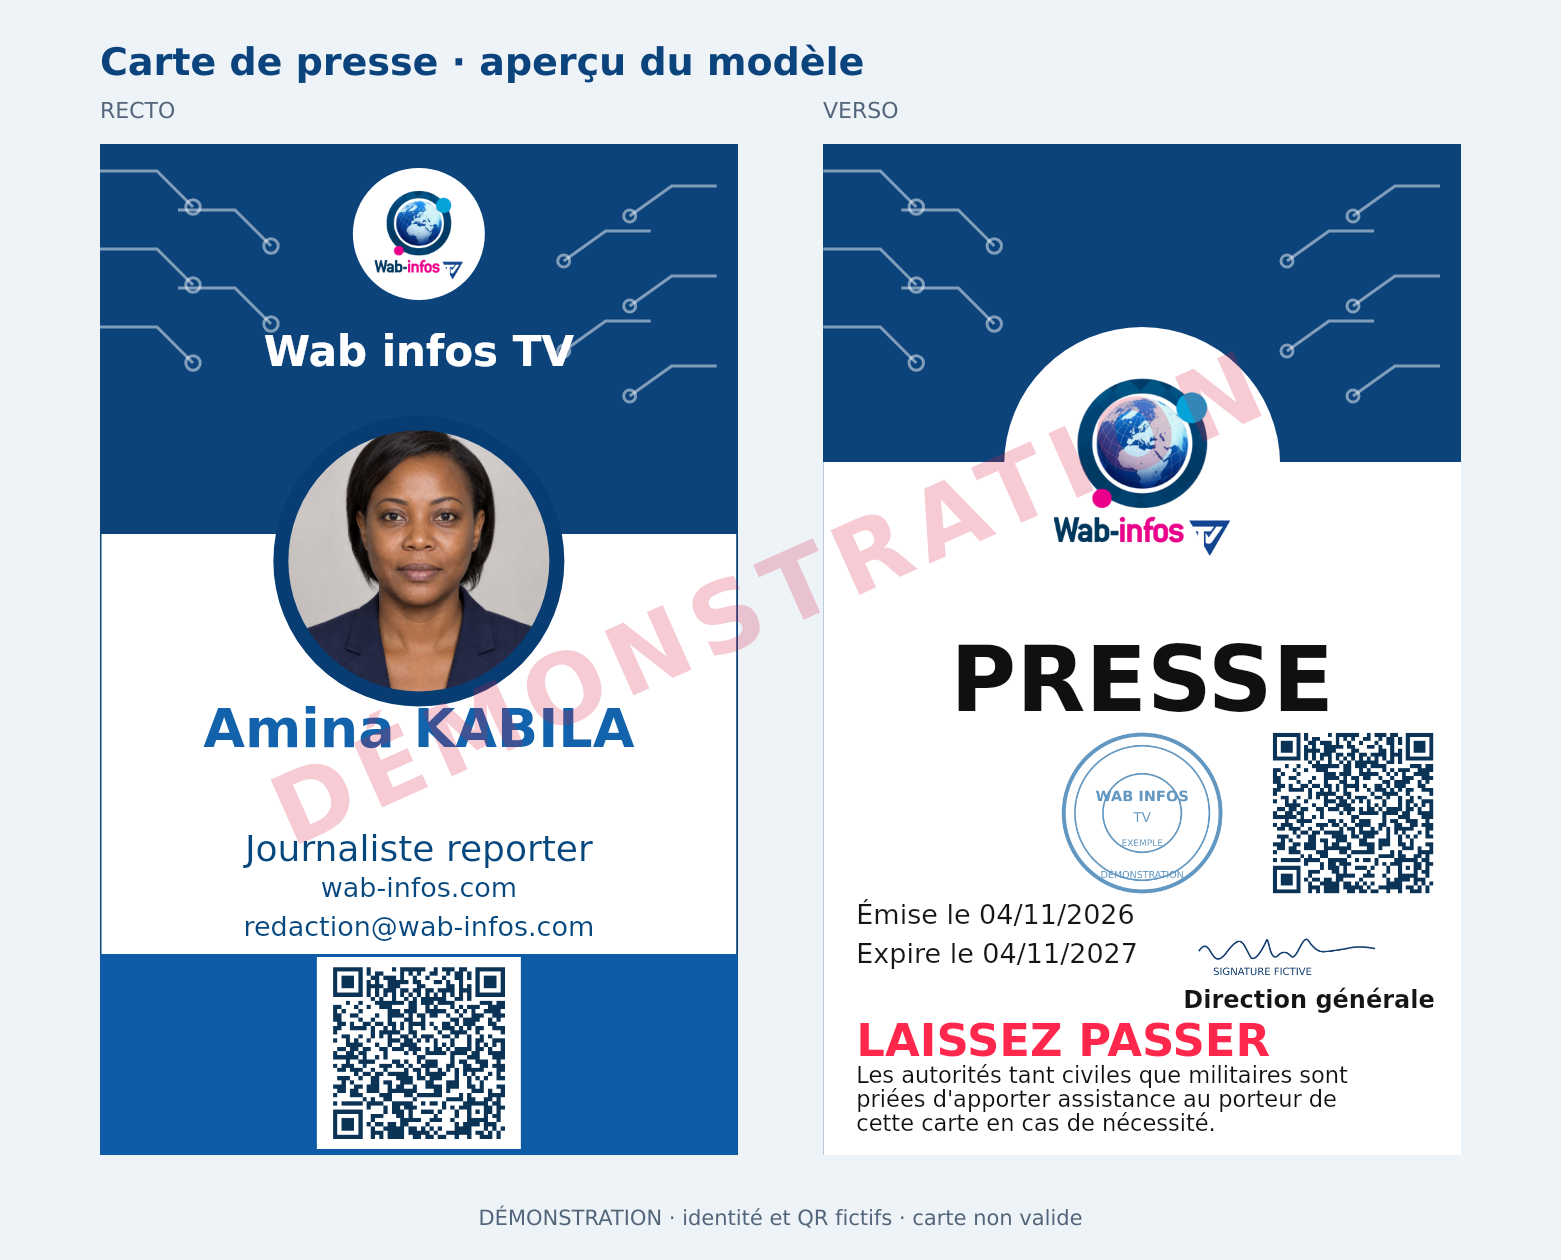
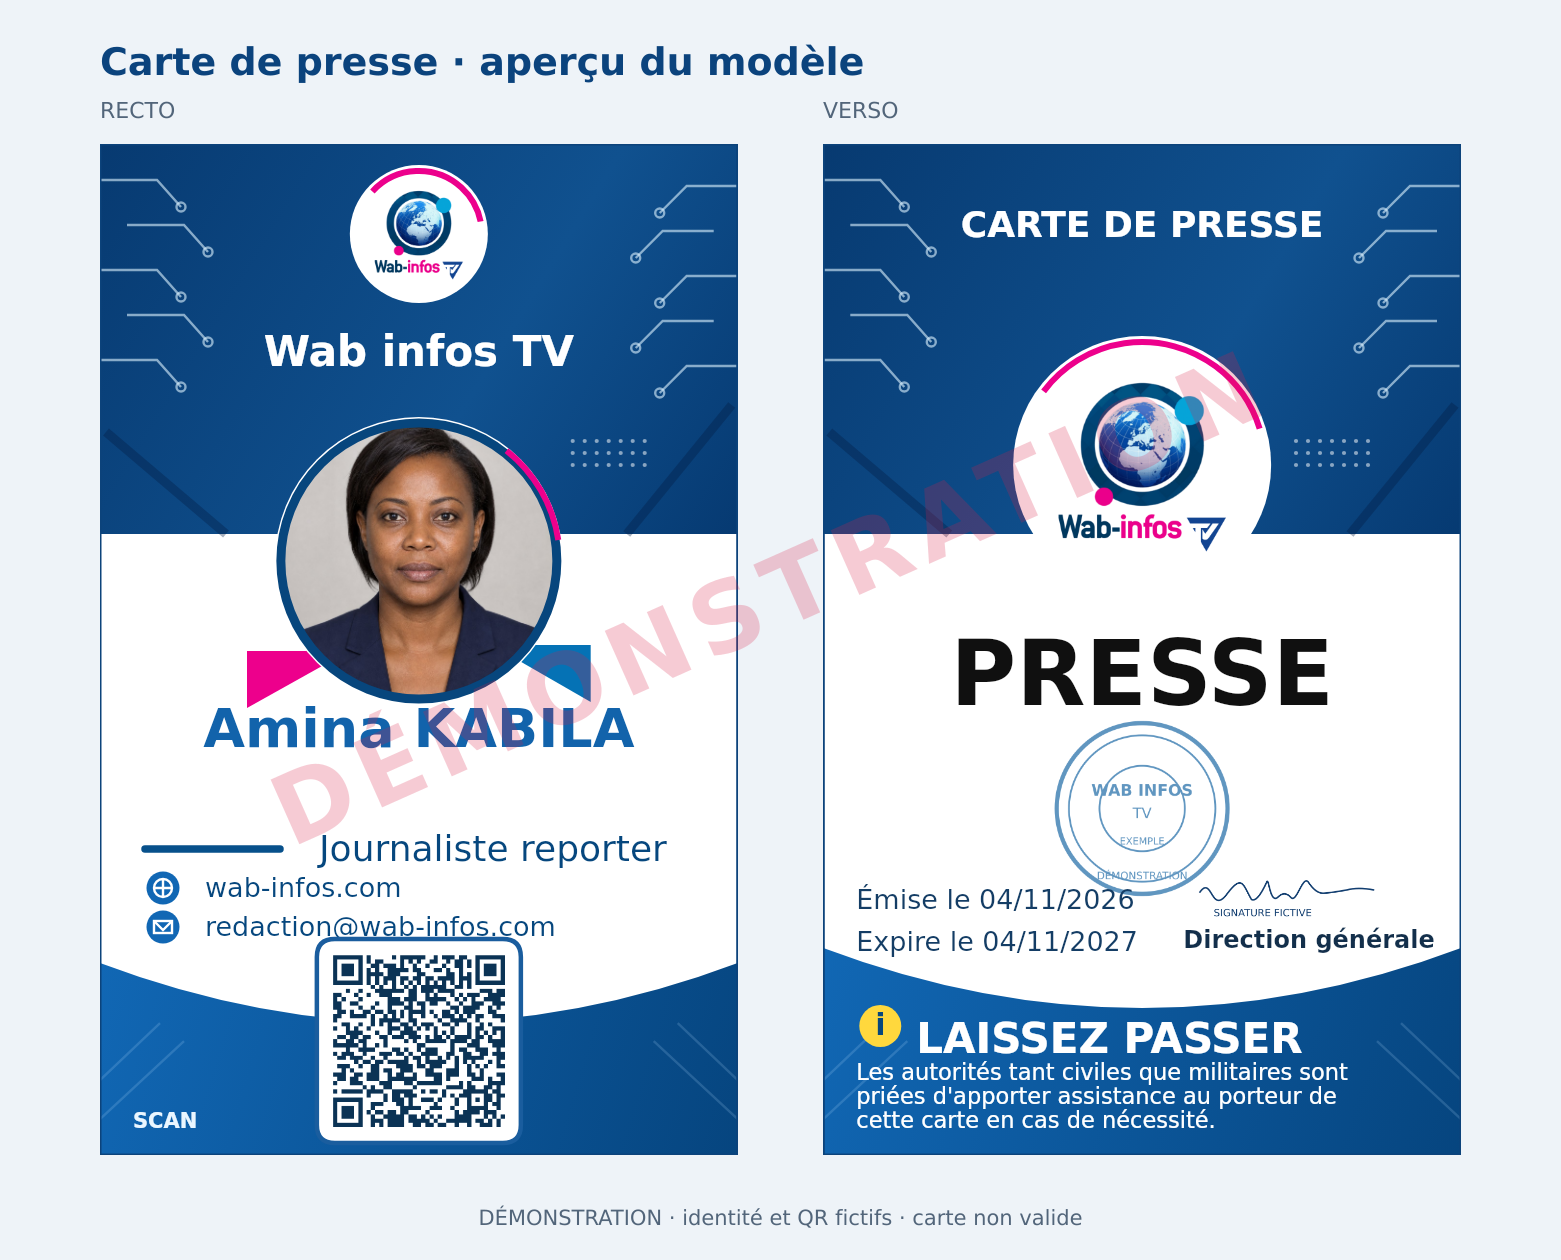
feat(rh): refresh press-card branding and curved footers

diff --git a/apps/redaction/src/lib/redaction/rh/service-card-export.ts b/apps/redaction/src/lib/redaction/rh/service-card-export.ts
@@ -85,19 +85,63 @@ export function planPressCardSheet(ctx:CanvasRenderingContext2D,data:CardSheetDa
   const {card}=data;
   if(!card.verificationUrl || !/^https?:\/\//.test(card.verificationUrl))throw new ServiceCardOverflowError();
   const name=pressLines(ctx,`${card.firstName} ${card.lastName}`,18,PRESS_W-18,2);
-  const role=pressLines(ctx,card.jobTitle,12,PRESS_W-20,1);
+  const role=pressLines(ctx,card.jobTitle,12,PRESS_W-78,1);
   const company=pressLines(ctx,data.companyName,14,PRESS_W-20,2);
-  const website=data.companyWebsite?pressLines(ctx,data.companyWebsite,9,PRESS_W-22,1):[];
-  const email=data.companyEmail?pressLines(ctx,data.companyEmail,9,PRESS_W-22,1):[];
+  const website=data.companyWebsite?pressLines(ctx,data.companyWebsite,9,PRESS_W-46,1):[];
+  const email=data.companyEmail?pressLines(ctx,data.companyEmail,9,PRESS_W-46,1):[];
   const director=data.directorName?pressLines(ctx,data.directorName,8,90,1):[];
   const notice=pressLines(ctx,"Les autorités tant civiles que militaires sont priées d'apporter assistance au porteur de cette carte en cas de nécessité.",7.5,PRESS_W-22,3);
   return {name,role,company,website,email,director,notice,cardWidth:PRESS_W,cardHeight:PRESS_H,frontX:PRESS_FRONT_X,backX:PRESS_BACK_X,cardY:PRESS_Y};
 }
 function network(ctx:CanvasRenderingContext2D,x:number,y:number,w:number){
-  ctx.save();ctx.strokeStyle='rgba(255,255,255,.48)';ctx.lineWidth=1;
-  for(let i=0;i<5;i++){const sx=x+(i%2)*26;const sy=y+9+i*13;ctx.beginPath();ctx.moveTo(sx,sy);ctx.lineTo(sx+19,sy);ctx.lineTo(sx+31,sy+12);ctx.stroke();ctx.beginPath();ctx.arc(sx+31,sy+12,2.4,0,Math.PI*2);ctx.stroke();}
-  for(let i=0;i<5;i++){const sx=x+w-7-(i%2)*22;const sy=y+14+i*15;ctx.beginPath();ctx.moveTo(sx,sy);ctx.lineTo(sx-15,sy);ctx.lineTo(sx-29,sy+10);ctx.stroke();ctx.beginPath();ctx.arc(sx-29,sy+10,2,0,Math.PI*2);ctx.stroke();}
+  ctx.save();ctx.strokeStyle='rgba(222,243,255,.60)';ctx.lineWidth=.8;
+  for(let i=0;i<5;i++){
+    const sy=y+12+i*15, left=x+(i%2)*9, right=x+w-(i%2)*8;
+    ctx.beginPath();ctx.moveTo(left,sy);ctx.lineTo(left+19,sy);ctx.lineTo(left+27,sy+9);ctx.stroke();
+    ctx.beginPath();ctx.arc(left+27,sy+9,1.5,0,Math.PI*2);ctx.stroke();
+    ctx.beginPath();ctx.moveTo(right,sy+2);ctx.lineTo(right-17,sy+2);ctx.lineTo(right-26,sy+11);ctx.stroke();
+    ctx.beginPath();ctx.arc(right-26,sy+11,1.5,0,Math.PI*2);ctx.stroke();
+  }
+  ctx.strokeStyle='rgba(2,25,65,.34)';ctx.lineWidth=3;
+  ctx.beginPath();ctx.moveTo(x+2,y+96);ctx.lineTo(x+42,y+130);ctx.moveTo(x+w-2,y+87);ctx.lineTo(x+w-37,y+130);ctx.stroke();
+  ctx.fillStyle='rgba(255,255,255,.52)';
+  for(let row=0;row<3;row++)for(let col=0;col<7;col++){
+    ctx.beginPath();ctx.arc(x+w-55+col*4,y+99+row*4,0.7,0,Math.PI*2);ctx.fill();
+  }
   ctx.restore();
+}
+function curvedFooter(ctx:CanvasRenderingContext2D,x:number,y:number,w:number,h:number,top:number){
+  ctx.save();
+  const gradient=ctx.createLinearGradient(x,y+top,x+w,y+h);
+  gradient.addColorStop(0,'#1167b4');gradient.addColorStop(1,'#06457f');
+  ctx.fillStyle=gradient;ctx.beginPath();ctx.moveTo(x,y+top);
+  ctx.quadraticCurveTo(x+w/2,y+top+40,x+w,y+top);
+  ctx.lineTo(x+w,y+h);ctx.lineTo(x,y+h);ctx.closePath();ctx.fill();
+  ctx.strokeStyle='rgba(184,224,255,.18)';ctx.lineWidth=.8;
+  for(const side of [0,1]){
+    const sx=side?x+w:x;
+    ctx.beginPath();ctx.moveTo(sx,y+h-12);ctx.lineTo(sx+(side?-28:28),y+h-38);
+    ctx.moveTo(sx,y+h-25);ctx.lineTo(sx+(side?-20:20),y+h-44);ctx.stroke();
+  }
+  ctx.restore();
+}
+function contactIcon(ctx:CanvasRenderingContext2D,x:number,y:number,kind:'web'|'mail'){
+  ctx.save();ctx.fillStyle='#1167b4';ctx.beginPath();ctx.arc(x,y,5.5,0,Math.PI*2);ctx.fill();
+  ctx.strokeStyle='#fff';ctx.lineWidth=.8;
+  if(kind==='web'){
+    ctx.beginPath();ctx.arc(x,y,3,0,Math.PI*2);ctx.moveTo(x-3,y);ctx.lineTo(x+3,y);
+    ctx.moveTo(x,y-3);ctx.lineTo(x,y+3);ctx.stroke();
+  }else{
+    ctx.strokeRect(x-3,y-2,6,4);ctx.beginPath();ctx.moveTo(x-3,y-2);ctx.lineTo(x,y+1);ctx.lineTo(x+3,y-2);ctx.stroke();
+  }
+  ctx.restore();
+}
+function qrFrame(ctx:CanvasRenderingContext2D,x:number,y:number){
+  ctx.save();ctx.fillStyle='#fff';ctx.strokeStyle='#1a5d9e';ctx.lineWidth=1.5;
+  ctx.beginPath();ctx.moveTo(x+6,y);ctx.lineTo(x+62,y);ctx.quadraticCurveTo(x+68,y,x+68,y+6);
+  ctx.lineTo(x+68,y+62);ctx.quadraticCurveTo(x+68,y+68,x+62,y+68);
+  ctx.lineTo(x+6,y+68);ctx.quadraticCurveTo(x,y+68,x,y+62);
+  ctx.lineTo(x,y+6);ctx.quadraticCurveTo(x,y,x+6,y);ctx.closePath();ctx.fill();ctx.stroke();ctx.restore();
 }
 async function renderPressSheet(data:CardSheetData,scale:number):Promise<HTMLCanvasElement> {
   const canvas=document.createElement('canvas');canvas.width=Math.round(W*scale);canvas.height=Math.round(H*scale);
@@ -113,30 +157,57 @@ async function renderPressSheet(data:CardSheetData,scale:number):Promise<HTMLCan
   const {frontX:fx,backX:bx,cardY:y,cardWidth:cw,cardHeight:ch}=layout;
   for(const x of [fx,bx]){
     ctx.fillStyle='#fff';ctx.fillRect(x,y,cw,ch);
-    ctx.fillStyle='#0c437b';ctx.fillRect(x,y,cw,130);
-    ctx.strokeStyle='#0c437b';ctx.lineWidth=1;ctx.strokeRect(x,y,cw,ch);
+    const header=ctx.createLinearGradient(x,y,x+cw,y+130);
+    header.addColorStop(0,'#073a71');header.addColorStop(.6,'#10518f');header.addColorStop(1,'#063a72');
+    ctx.fillStyle=header;ctx.fillRect(x,y,cw,130);
     network(ctx,x,y,cw);
   }
-  // Recto : en-tête bleu technique, médaillon photo et informations professionnelles.
-  ctx.save();ctx.beginPath();ctx.arc(fx+cw/2,y+139,47,0,Math.PI*2);ctx.fillStyle='#fff';ctx.fill();ctx.clip();drawCover(ctx,photo,fx+cw/2-45,y+94,90,90);ctx.restore();
-  ctx.strokeStyle='#083d74';ctx.lineWidth=5;ctx.beginPath();ctx.arc(fx+cw/2,y+139,46,0,Math.PI*2);ctx.stroke();
-  ctx.fillStyle='#fff';ctx.beginPath();ctx.arc(fx+cw/2,y+30,22,0,Math.PI*2);ctx.fill();draw(ctx,logo,fx+cw/2-20,y+10,40,40);
-  ctx.textAlign='center';ctx.fillStyle='#fff';font(ctx,14,true);layout.company.forEach((text,i)=>ctx.fillText(text,fx+cw/2,y+74+i*16));
-  ctx.fillStyle='#1263ab';font(ctx,18,true);layout.name.forEach((text,i)=>ctx.fillText(text,fx+cw/2,y+201+i*19));
-  ctx.fillStyle='#06477e';font(ctx,12);layout.role.forEach(text=>ctx.fillText(text,fx+cw/2,y+239));
-  font(ctx,9);ctx.fillStyle='#06477e';layout.website.forEach(text=>ctx.fillText(text,fx+cw/2,y+251));layout.email.forEach(text=>ctx.fillText(text,fx+cw/2,y+264));
-  ctx.fillStyle='#0e5ca7';ctx.fillRect(fx,y+270,cw,ch-270);
-  ctx.fillStyle='#fff';ctx.fillRect(fx+cw/2-34,y+271,68,64);draw(ctx,qr,fx+cw/2-30,y+273,60,60);
-  // Verso : modèle presse, sceau et image du DG configurés, mention demandée par l'administration.
-  ctx.fillStyle='#fff';ctx.fillRect(bx,y+106,cw,ch-106);
-  ctx.fillStyle='#fff';ctx.beginPath();ctx.arc(bx+cw/2,y+107,46,0,Math.PI*2);ctx.fill();draw(ctx,logo,bx+cw/2-40,y+67,80,80);
-  ctx.fillStyle='#101010';font(ctx,30,true);ctx.fillText('PRESSE',bx+cw/2,y+189);
-  ctx.save();ctx.globalAlpha=.67;draw(ctx,seal,bx+cw/2-29,y+195,58,56);ctx.restore();
-  ctx.textAlign='left';ctx.fillStyle='#151515';font(ctx,9);ctx.fillText(`Émise le ${data.card.issuedAt}`,bx+11,y+260);ctx.fillText(`Expire le ${data.card.expiresAt}`,bx+11,y+273);
-  draw(ctx,signature,bx+122,y+257,74,22);font(ctx,8,true);layout.director.forEach(text=>ctx.fillText(text,bx+120,y+288));
-  ctx.fillStyle='#ff274b';font(ctx,15,true);ctx.fillText('LAISSEZ PASSER',bx+11,y+304);
-  ctx.fillStyle='#101010';font(ctx,7.5);layout.notice.forEach((text,i)=>ctx.fillText(text,bx+11,y+313+i*8));
-  ctx.fillStyle='#fff';ctx.fillRect(bx+cw-68,y+193,64,60);draw(ctx,qr,bx+cw-66,y+195,60,56);
+  // RECTO : identité, charte bleue et rose, contacts avec pictogrammes.
+  ctx.fillStyle='#ed008c';ctx.beginPath();ctx.moveTo(fx+49,y+169);ctx.lineTo(fx+83,y+169);ctx.lineTo(fx+49,y+188);ctx.fill();
+  ctx.fillStyle='#0572b5';ctx.beginPath();ctx.moveTo(fx+cw-49,y+167);ctx.lineTo(fx+cw-82,y+167);ctx.lineTo(fx+cw-49,y+186);ctx.fill();
+  ctx.fillStyle='#fff';ctx.beginPath();ctx.arc(fx+cw/2,y+30,23,0,Math.PI*2);ctx.fill();
+  ctx.strokeStyle='#ec008c';ctx.lineWidth=2;ctx.beginPath();ctx.arc(fx+cw/2,y+30,21,-2.4,-.2);ctx.stroke();
+  draw(ctx,logo,fx+cw/2-20,y+10,40,40);
+  ctx.textAlign='center';ctx.fillStyle='#fff';font(ctx,14,true);
+  layout.company.forEach((text,i)=>ctx.fillText(text,fx+cw/2,y+74+i*16));
+  ctx.fillStyle='#fff';ctx.beginPath();ctx.arc(fx+cw/2,y+139,48,0,Math.PI*2);ctx.fill();
+  ctx.save();ctx.beginPath();ctx.arc(fx+cw/2,y+139,45,0,Math.PI*2);ctx.clip();drawCover(ctx,photo,fx+cw/2-45,y+94,90,90);ctx.restore();
+  ctx.strokeStyle='#07467d';ctx.lineWidth=3;ctx.beginPath();ctx.arc(fx+cw/2,y+139,46,0,Math.PI*2);ctx.stroke();
+  ctx.strokeStyle='#ed008c';ctx.lineWidth=2;ctx.beginPath();ctx.arc(fx+cw/2,y+139,47,-.9,-.15);ctx.stroke();
+  ctx.fillStyle='#1263ab';font(ctx,18,true);
+  layout.name.forEach((text,i)=>ctx.fillText(text,fx+cw/2,y+201+i*19));
+  ctx.strokeStyle='#07508b';ctx.lineWidth=2.5;ctx.lineCap='round';ctx.beginPath();
+  ctx.moveTo(fx+15,y+235);ctx.lineTo(fx+60,y+235);ctx.stroke();ctx.lineCap='butt';
+  ctx.textAlign='left';ctx.fillStyle='#06477e';font(ctx,12);
+  layout.role.forEach(text=>ctx.fillText(text,fx+73,y+239));
+  ctx.fillStyle='#06477e';font(ctx,9);
+  layout.website.forEach(text=>{contactIcon(ctx,fx+21,y+248,'web');ctx.fillText(text,fx+35,y+251);});
+  layout.email.forEach(text=>{contactIcon(ctx,fx+21,y+261,'mail');ctx.fillText(text,fx+35,y+264);});
+  curvedFooter(ctx,fx,y,cw,ch,273);
+  qrFrame(ctx,fx+cw/2-34,y+265);
+  draw(ctx,qr,fx+cw/2-30,y+269,60,60);
+  ctx.textAlign='left';ctx.fillStyle='#eaf6ff';font(ctx,7,true);ctx.fillText('SCAN',fx+11,y+328);
+  // VERSO : sceau et signature, QR uniquement sur le recto ; bas de carte en bleu courbe.
+  ctx.textAlign='center';ctx.fillStyle='#fff';font(ctx,12,true);ctx.fillText('CARTE DE PRESSE',bx+cw/2,y+31);
+  ctx.fillStyle='#fff';ctx.beginPath();ctx.arc(bx+cw/2,y+107,43,0,Math.PI*2);ctx.fill();
+  ctx.strokeStyle='#ed008c';ctx.lineWidth=2;ctx.beginPath();ctx.arc(bx+cw/2,y+107,41,-2.5,-.3);ctx.stroke();
+  draw(ctx,logo,bx+cw/2-38,y+69,76,76);
+  ctx.fillStyle='#101010';font(ctx,30,true);ctx.fillText('PRESSE',bx+cw/2,y+187);
+  ctx.save();ctx.globalAlpha=.68;draw(ctx,seal,bx+cw/2-31,y+191,62,61);ctx.restore();
+  ctx.textAlign='left';ctx.fillStyle='#143d65';font(ctx,9);
+  ctx.fillText(`Émise le ${data.card.issuedAt}`,bx+11,y+255);
+  ctx.fillText(`Expire le ${data.card.expiresAt}`,bx+11,y+269);
+  draw(ctx,signature,bx+122,y+238,74,21);
+  ctx.fillStyle='#132f4b';font(ctx,8,true);
+  layout.director.forEach(text=>ctx.fillText(text,bx+120,y+268));
+  curvedFooter(ctx,bx,y,cw,ch,268);
+  ctx.fillStyle='#ffd83d';ctx.beginPath();ctx.arc(bx+19,y+294,7,0,Math.PI*2);ctx.fill();
+  ctx.fillStyle='#06477e';font(ctx,10,true);ctx.textAlign='center';ctx.fillText('i',bx+19,y+297);
+  ctx.textAlign='left';ctx.fillStyle='#fff';font(ctx,14,true);
+  ctx.fillText('LAISSEZ PASSER',bx+31,y+303);
+  ctx.font='7.5px Arial';ctx.fillStyle='#fff';
+  layout.notice.forEach((text,i)=>ctx.fillText(text,bx+11,y+312+i*8));
+  for(const x of [fx,bx]){ctx.strokeStyle='#0c437b';ctx.lineWidth=1;ctx.strokeRect(x,y,cw,ch);}
   ctx.textAlign='left';ctx.fillStyle='#444';font(ctx,11);ctx.fillText('QR : identité de l’entreprise et statut actuel de la carte (non preuve d’identité du porteur).',62,640);
   ctx.fillText('La mention « Laissez passer » est fournie par l’entreprise ; elle ne confère aucune habilitation publique.',62,665);
   ctx.strokeStyle='#d2d4db';ctx.beginPath();ctx.moveTo(62,H-68);ctx.lineTo(W-62,H-68);ctx.stroke();
